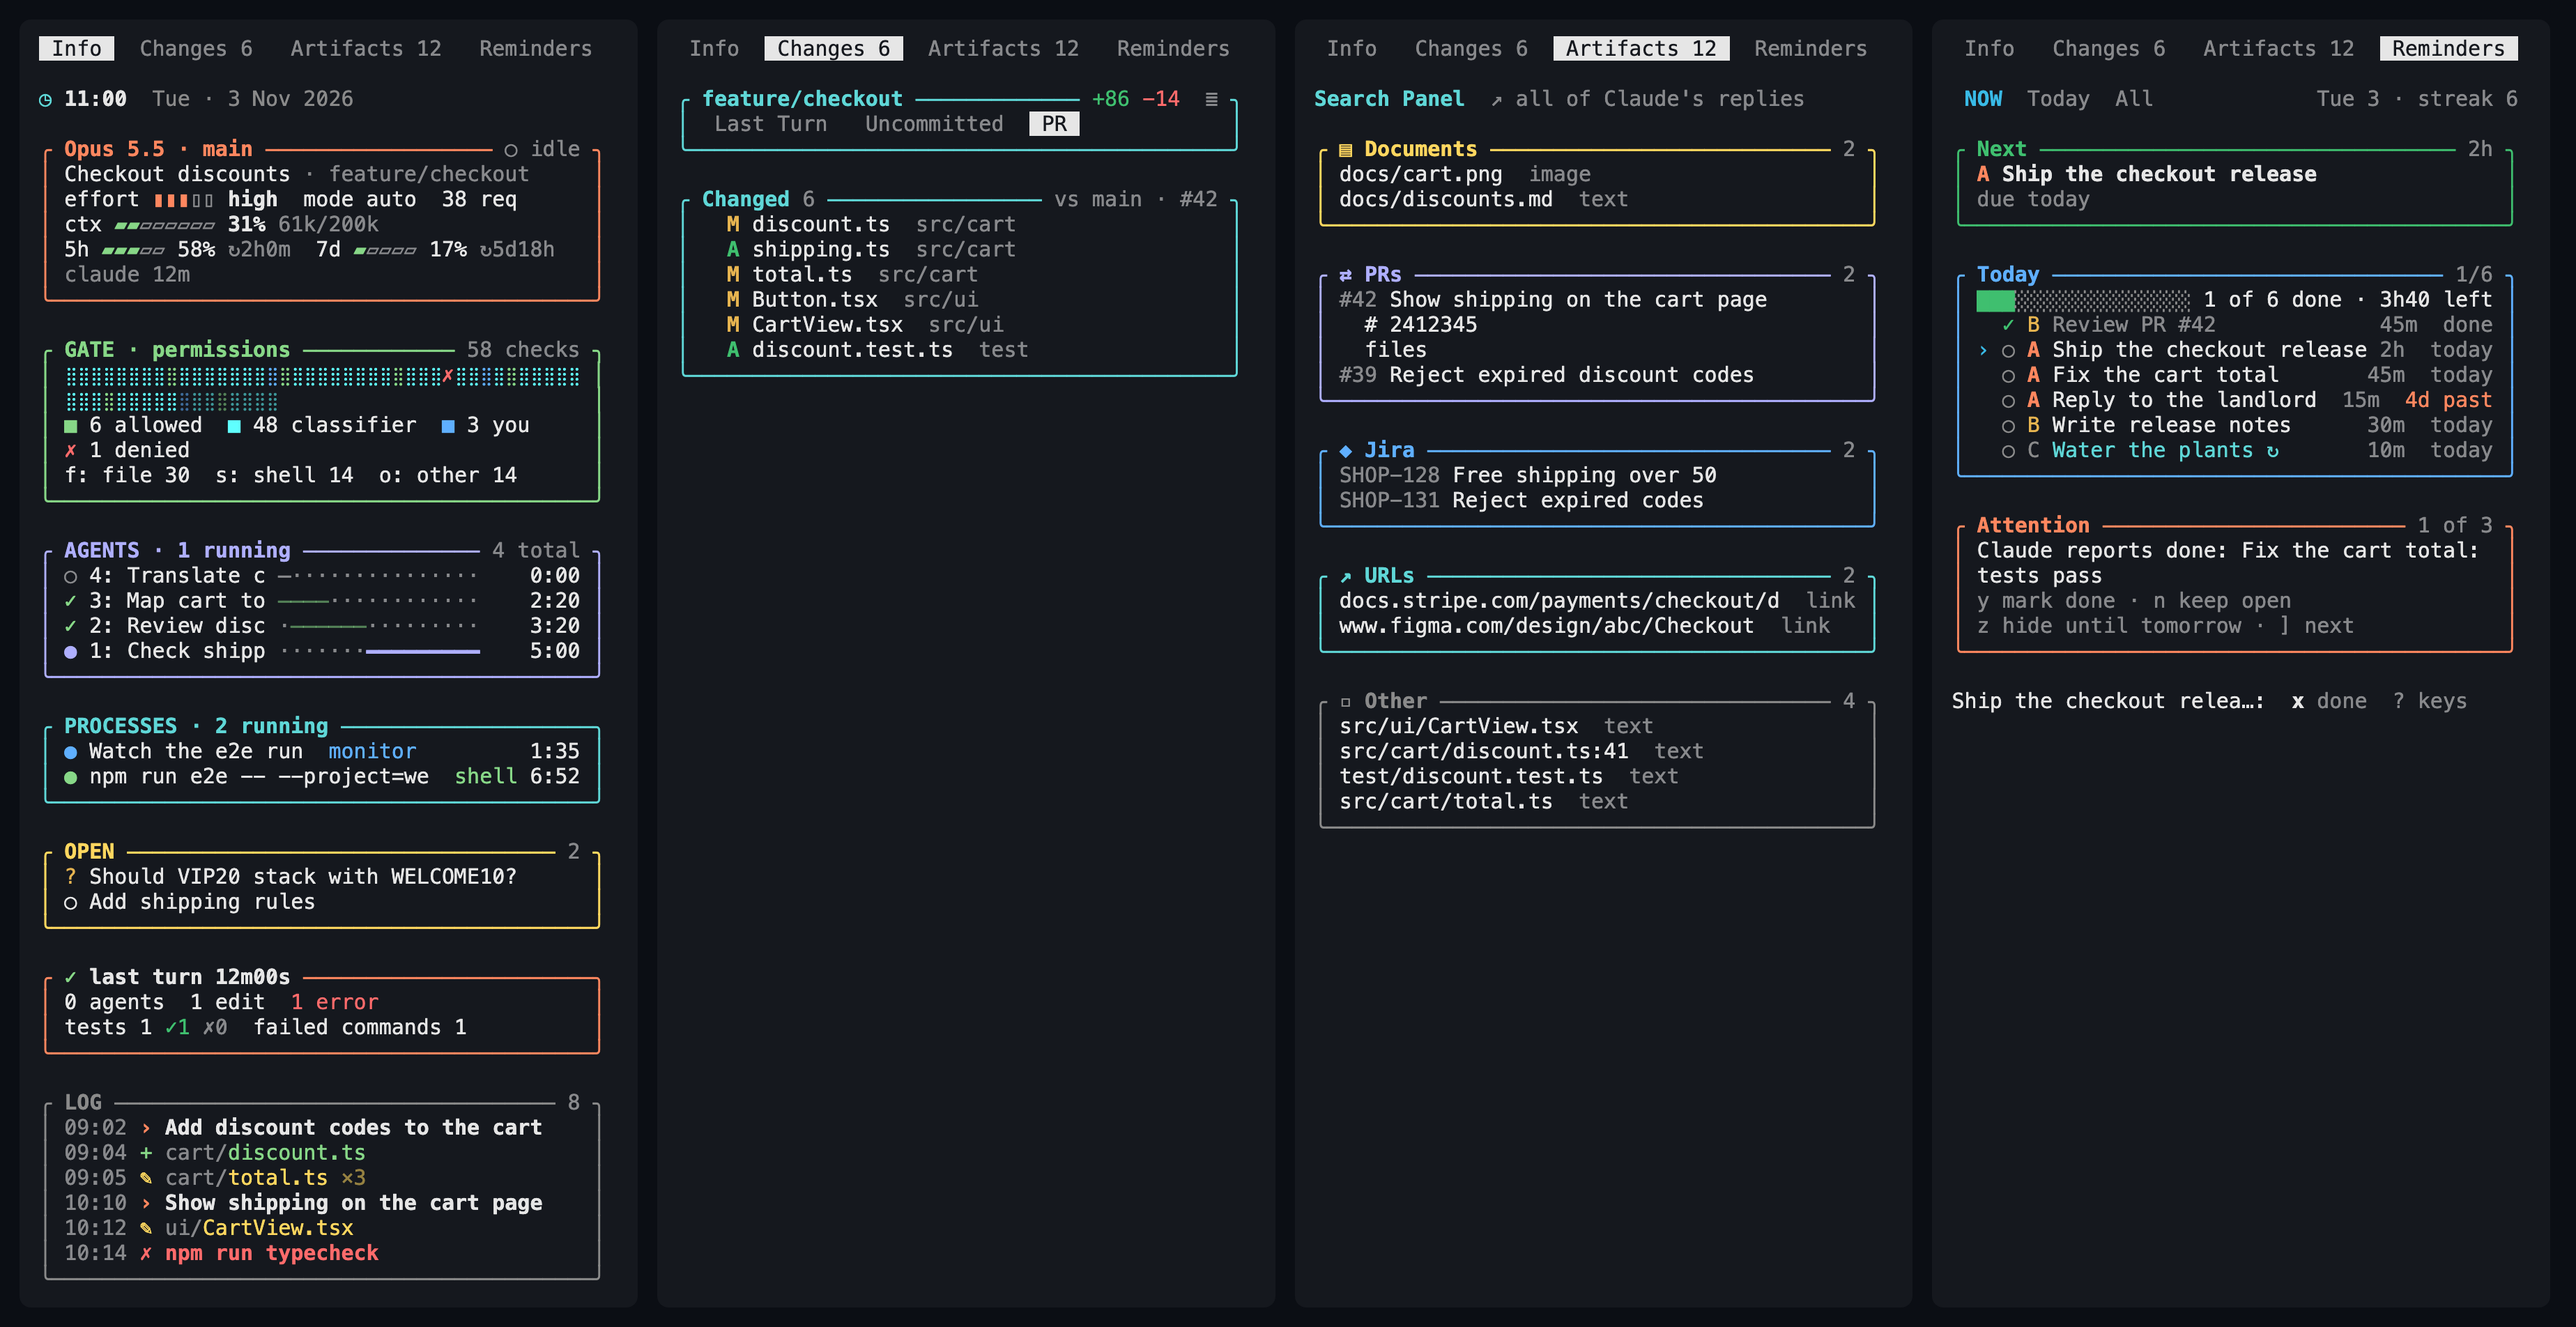
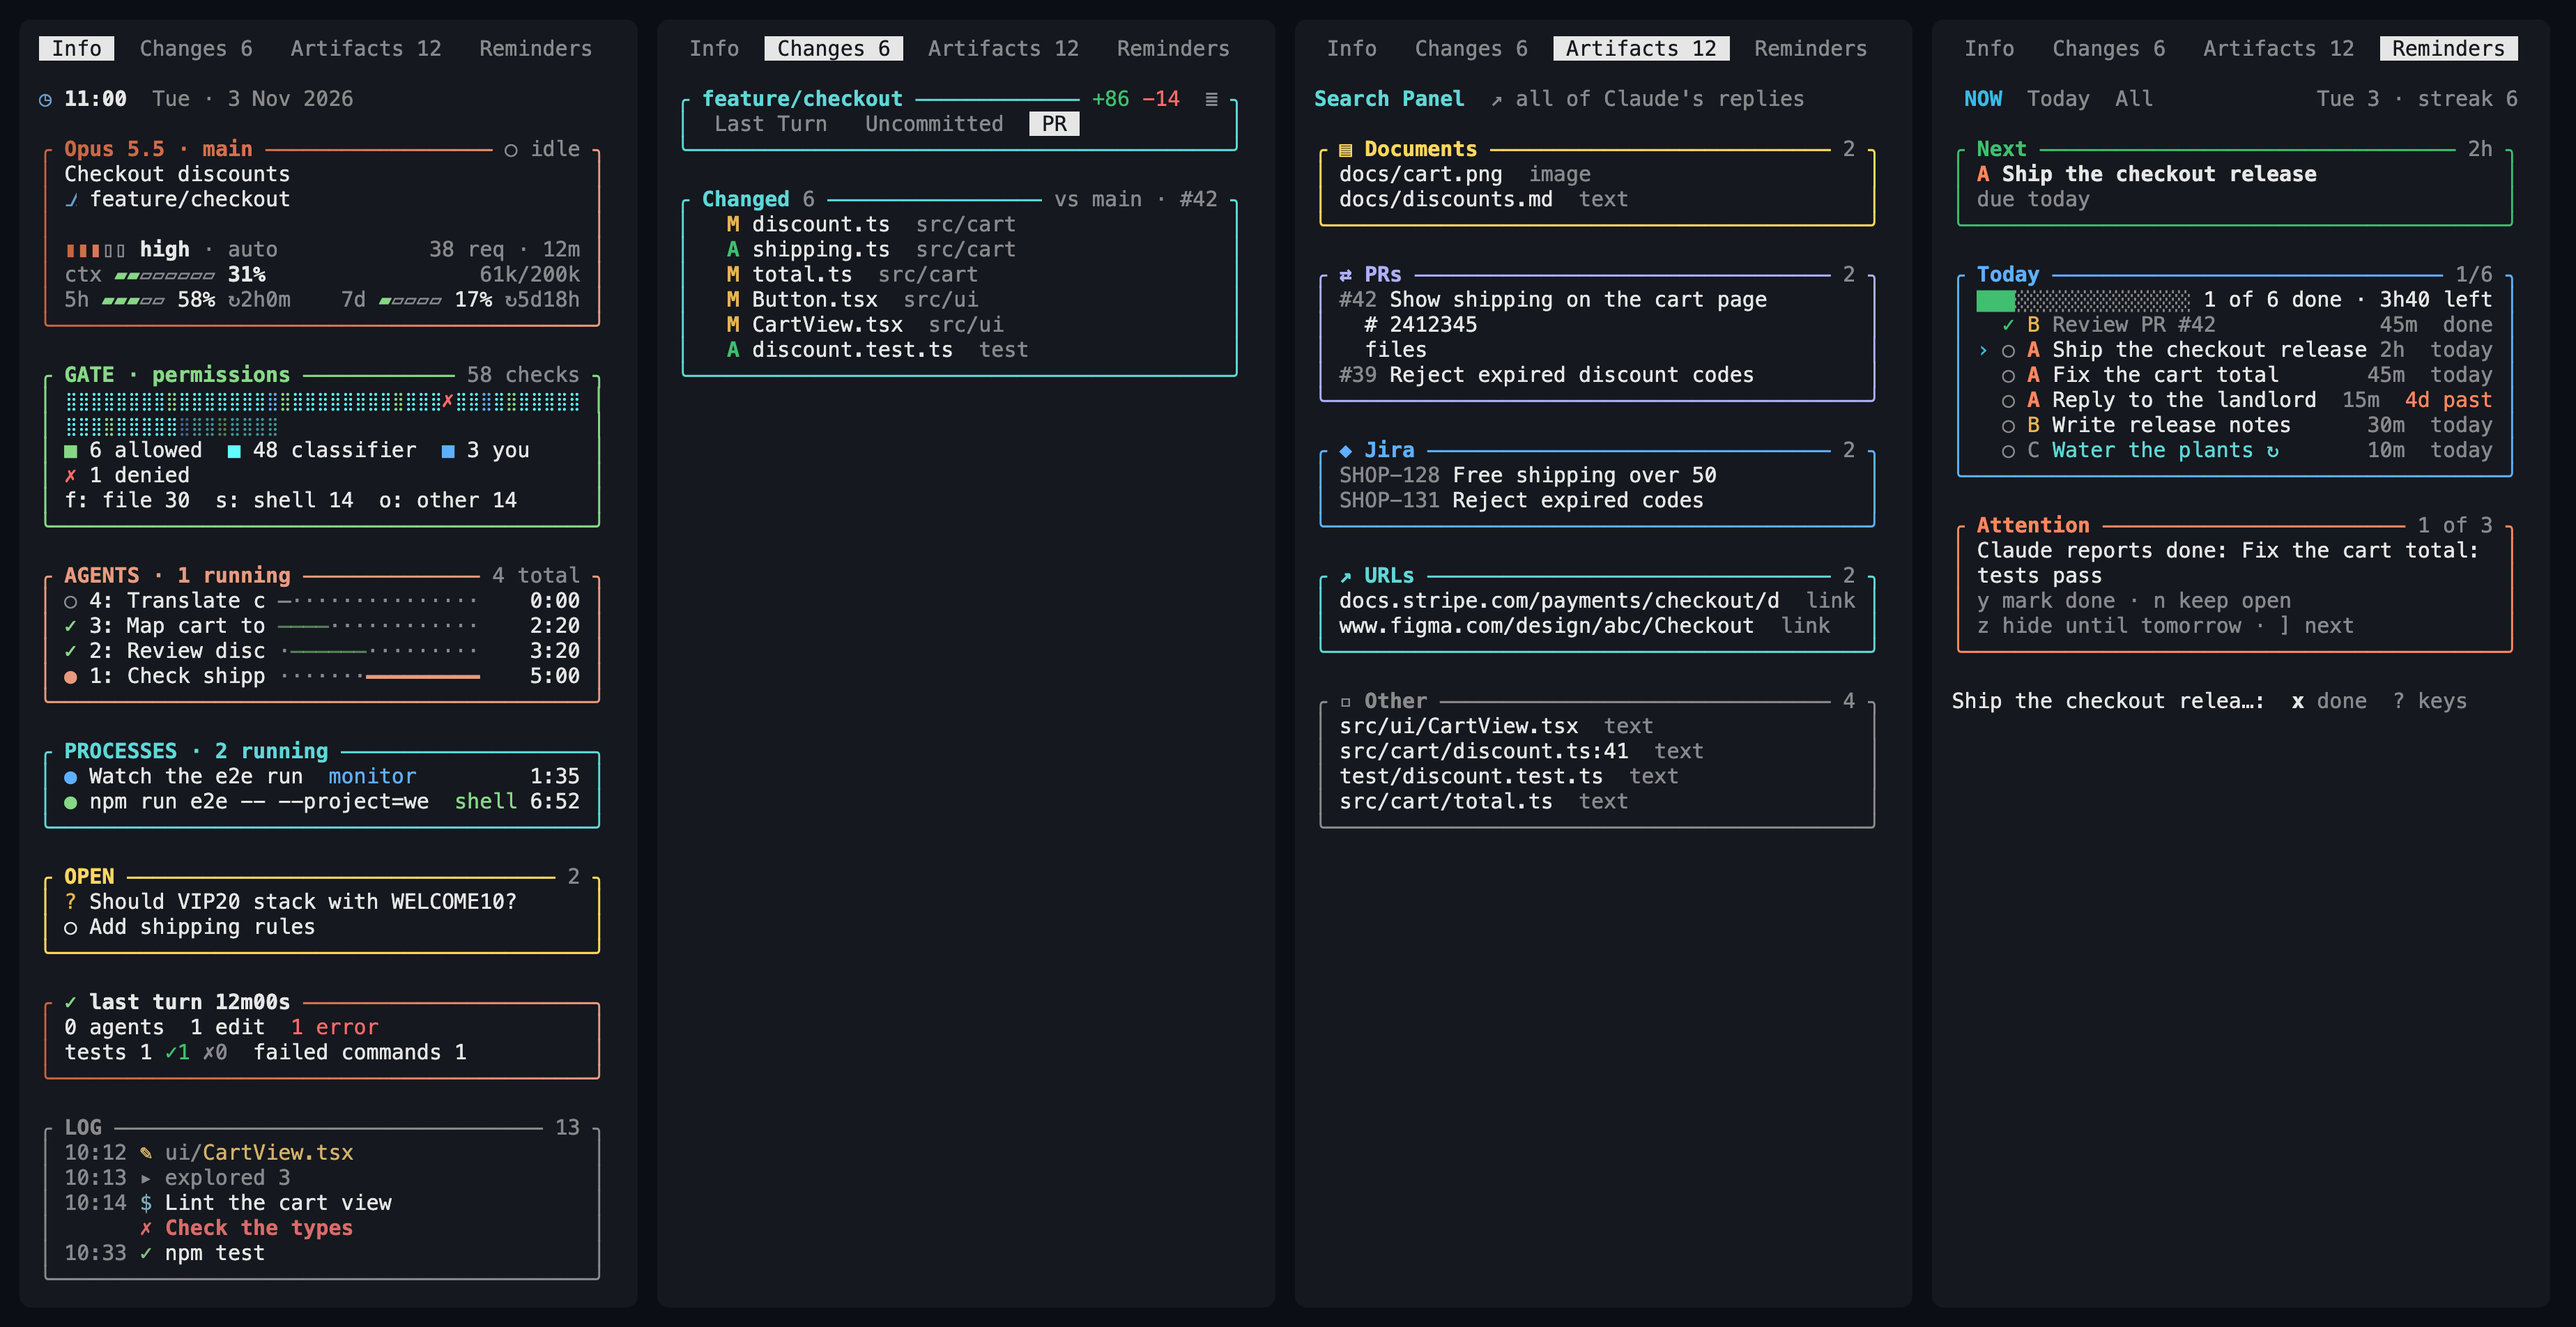
docs: v1.3.0 changelog, log and colour docs, and new pictures

Changed region(s): [[0.0, 0.093, 0.2489, 0.9606]]

diff --git a/rex-sidecar/README.md b/rex-sidecar/README.md
@@ -44,10 +44,12 @@ headings. Each frame is drawn in one go, so a pane resized in a background tab
 comes back whole and doesn't flicker.
 
 The main and turn boxes, the title and the effort bar take the agent's
-colours. Claude is coral with lavender subagents. Codex runs from blue to
-indigo, with periwinkle subagents. agy runs through Google's four colours,
+colours. Claude runs from terracotta to soft clay, with clay subagents.
+Codex runs from blue to indigo, with periwinkle subagents. agy runs through Google's four colours,
 with light blue subagents. Pi runs from pink to orchid, with blush
-subagents. OpenCode runs from slate to silver, with misty subagents.
+subagents. OpenCode runs from slate to silver, with misty subagents. The
+crab pond uses the same colours, from each adapter's `theme` in
+[`../agents/`](../agents/README.md).
 
 ![Four Info tabs with made-up data: a Codex session in blue and indigo, an agy session in Google's four colours, a Pi session in pink and an OpenCode session in silver, each with its subagent, open question, last turn and log](../docs/rex-sidecar-themes.png)
 
@@ -104,14 +106,14 @@ Info opens first. Its top line shows the time and date, such as
 
 | Box | What's in it |
 | --- | --- |
-| **Model · main** | Running or idle. The session's title and branch. Reasoning effort, permission mode and the number of requests. Context used against the model's window, and ⟲ with how often it was compacted. Your 5-hour and 7-day limits, with the time to each reset (↻). Claude's working time |
+| **Model · main** | Running or idle, with `code` before it in Claude's Code Mode. The session's title. The branch (`⎇`), read live from git, and `⑂` with the worktree's name when the folder is a linked worktree. Reasoning effort, permission mode and the number of requests. Context used against the model's window, and ⟲ with how often it was compacted. Your 5-hour and 7-day limits, with the time to each reset (↻). Claude's working time |
 | **ADVISOR** | The advisor tool's consults on a timeline: how long ago the last one was, and how long it took. Shows only once Claude has consulted it |
 | **GATE** | One dotted cell (`⣿`) per permission check. Green: allowed by a rule or the mode. Cyan: allowed by the auto-mode classifier. Blue: allowed by you. Red ✗: denied. Dim: made inside a subagent. Then the totals by family: click `file`, `shell` or `other`, or press `f`, `s` or `o`, to list that family's last 5 checks |
 | **AGENTS** | The latest 8 subagents as lanes on one time axis, newest first. A running one has a pulsing ● and a ticking clock. One that hasn't changed for 5 minutes without finishing, such as an idle team member, shows a grey ○. Click a lane for its type, context, steps, last 3 tool calls and the start of its answer |
 | **PROCESSES** | Claude's background tasks running right now, newest first, as Claude Code's own list shows them: a monitor by its description, a shell by its command. Green for a shell, blue for a monitor, with how long it has run. Hidden while none run |
 | **OPEN** | Questions and plans waiting for your answer, questions at the end of Claude's last reply, and unfinished tasks |
 | **Receipt** | The running turn, or the last one: how long it took, the agents it started, its edits and errors. Then tests and failed commands; click either to list the latest 8. A command counts as a test when it's `pytest`, `npm test`, `go test`, or a script named test or spec |
-| **LOG** | Your prompts, file writes and edits, agents starting and finishing, workflows, failed commands, denied checks, advisor consults and compactions. Each row has an icon and a colour for its kind: `›` prompt, `+` new file, `✎` edit, `-` delete, `▸` workflow, `✦` agent, `◆` advisor, `✗` error or denial, `⟲` compaction or interrupt, `•` anything else. Times are `HH:MM`, shown once per minute. Paths are cut to `folder/file`, and the same event in a row folds into one line with `×N` (prompts never fold). It fills the space below the other boxes, or a screen of its own when they fill the screen |
+| **LOG** | What the agent did, for all five agents. Each row has an icon and a colour for its kind; see [The log](#the-log). Times are `HH:MM`, shown once per minute. It fills the space below the other boxes, or a screen of its own when they fill the screen |
 
 - Context and usage limits depend on the agent: Claude Code and agy need their
   optional status line setup; Pi needs its extension for context % (no usage
@@ -124,6 +126,33 @@ Info opens first. Its top line shows the time and date, such as
 - Values that look like secrets are shown as `•••` in GATE, the lanes, the
   receipt, PROCESSES and the log: the value after `TOKEN=`, `--password` or
   `Authorization:`, bearer tokens, and long key-like strings.
+
+### The log
+
+| Icon | Kind |
+| --- | --- |
+| `›` | Your prompt, in bold |
+| `+` `✎` `-` | A file written, edited or deleted. Paths are cut to `folder/file` |
+| `$` | A command. It shows the agent's description of it when there is one; click the row to see the command itself |
+| `✓` | Tests that passed |
+| `◦` | A file read, or a look through files (grep, glob, a read-only command). Two or more in a row fold into `▸ read 4 files` or `▸ explored 5`; click to open them (`▾`) |
+| `↗` `◎` | A web page opened, a web search |
+| `⬡` | An MCP tool, as `server·tool` |
+| `▷` | A workflow |
+| `✦` | A subagent starting or finishing |
+| `♦` | An advisor consult |
+| `✗` | An error or a denied check, in red |
+| `⟲` | A compaction or an interrupt |
+| `•` | Anything else |
+
+Commands that only read, such as `ls`, `cat`, `grep`, `git log`, `sed`
+without `-i`, or several of them joined with `&&`, `;` or `|`, count as reads.
+A command that writes a file, deletes or runs a script doesn't. Leading
+`cd ... &&` and `name=...;` parts are dropped, and your home and the project
+folder are shortened. The same event in a row folds into one line with `×N`;
+prompts never fold. `sleep`, Rex's own `rex session rename` and Claude's
+reads of its own spilled tool output are left out, and so are Code Mode's
+`REPL` wrappers, since the calls inside them are logged.
 
 ## Artifacts
 
@@ -498,11 +527,12 @@ doesn't select text in it.
 
 ## Tab settings
 
-`,` lists every tab after Info, which always shows. A shown tab has `✓`.
+`,` lists every tab. A shown tab has `✓`. Info always shows, but can be
+moved like the others.
 
 - `j` `k` select a tab.
 - `Space`, or a click, shows or hides it.
-- `J` `K` move it.
+- `J` `K`, `Shift+↑` `Shift+↓`, or a click on `↑` `↓`, move it.
 - `Esc` or `,` closes the list.
 
 The result is saved in `settings.json` as
@@ -630,6 +660,9 @@ pkill -f 'rex-sidecar/watcher\.lua'; rex config reload
   including `Changes:` panes from before this extension was renamed.
 - rex-resume doesn't save sidecar panes. They come back with the resumed
   agent.
+- In a tab you aren't looking at, the pane pauses its animations and most of
+  its polling. While a turn runs, the turn box animates at about 60 frames a
+  second, patched in place.
 - Errors go to `~/.config/rex/state/rex-sidecar.log`. The pane shows its own.
 
 ## Where Info and Artifacts get their data

diff --git a/CHANGELOG.md b/CHANGELOG.md
@@ -3,12 +3,75 @@
 Releases are tagged `vX.Y.Z` on GitHub. The skills keep their own versions,
 in each plugin's `plugin.json`.
 
-## Unreleased
+## v1.3.0 — 2026-11-23
 
-- **rex-view removed:** the rex-view skill plugin is gone from the repository
-  and the marketplace. Uninstall it with
-  `claude plugin uninstall rex-view@rex-extensions`. The sidecar's Search
-  Panel and Artifacts tab keep their viewer, now at `rex-sidecar/viewer`.
+A clearer LOG for all five agents, shared agent colours in the sidecar and
+the pond, a much lighter CPU and memory footprint, Code Mode support, and the
+rex-view plugin retired.
+
+### rex-sidecar
+
+- **LOG:** a calmer icon and colour per kind, for Claude, Codex, agy, Pi and
+  OpenCode alike: `$` commands, `✓` passing tests, `◦` reads and searches,
+  `↗` and `◎` web pages and searches, `⬡` MCP tools (`server·tool`), `▷`
+  workflows and `♦` advisor consults, besides prompts, writes, edits,
+  deletes, subagents, errors and compactions.
+  - A command shows the agent's description of it, when there is one; click
+    the row to see the command itself.
+  - Two or more reads in a row fold into `▸ read N files` or `▸ explored N`,
+    and a click opens them. Read-only shell commands count as reads, even
+    when joined with `&&`, `;` or `|`.
+  - Leading `cd ... &&` and `name=...;` parts are dropped, and your home and
+    the project folder are shortened.
+  - `sleep`, `rex session rename`, Claude's reads of its own spilled tool
+    output and Code Mode's `REPL` wrappers are left out.
+- **Code Mode:** a Claude session in Code Mode shows `code` before the
+  running or idle dot.
+- **Main box:** the branch (`⎇`) is read live from git, and a linked worktree
+  shows as `⑂` with its name. Effort and mode lose their labels.
+- **Turn box:** while a turn runs, it animates at about 60 frames a second,
+  patched in place, without the old 2-second stalls.
+- **Tab settings:** Info is listed too and can be moved, with `J` `K`,
+  `Shift+↑` `Shift+↓` or a click on `↑` `↓`. It still can't be hidden.
+- **Colours:** Claude now runs from terracotta to soft clay. Every adapter
+  declares its palette as a `theme` in `agents/`, and the sidecar and pond
+  both read it.
+- **Performance:** a pane in a hidden tab pauses its animations and most
+  polling. Finished tool calls and subagent calls are freed, which stopped a
+  leak of tens of MB in long sessions. Git is read without subprocesses when
+  the folder hasn't changed.
+
+### rex-crab-pond
+
+- Agent crabs and their titles take their agent's gradient: Codex is now blue
+  to indigo, not green, and its subagents periwinkle.
+- A pond in a hidden tab stops drawing and checking programs, and a visible
+  one skips frames where nothing moved. Rendering is about 4.6× faster.
+
+### Agents
+
+- agy's `lsof` lookup skips DNS, so it no longer stalls for up to half a
+  second.
+- The Pi extension also follows tree navigation, compactions and thinking
+  level changes.
+
+### rex-view removed
+
+- The rex-view skill plugin is gone from the repository and the marketplace.
+  Uninstall it with `claude plugin uninstall rex-view@rex-extensions`.
+- The sidecar's Search Panel and Artifacts tab keep their viewer, now at
+  `rex-sidecar/viewer`. The Search Panel picture is now
+  `docs/search-panel.png`.
+
+### Docs
+
+- New pictures of the sidecar, the agent colours and the crab pond.
+- The sidecar README has a new section on the log.
+
+### Thanks
+
+Thanks to Timofei Bogoliubov for the themes, the LOG, the 60 Hz turn box,
+Code Mode support and the performance work (#8 to #11).
 
 ## v1.2.2 — 2026-11-22
 

diff --git a/rex-crab-pond/README.md b/rex-crab-pond/README.md
@@ -54,6 +54,11 @@ The first crab is the tab's main agent: the focused agent pane, or the last
 one that was. It shows the session's name, model and uptime. Other agents in
 the tab get crabs of their own.
 
+An agent crab's body and title run through its agent's colours, the same ones
+the sidecar uses: Claude from terracotta to soft clay, Codex from blue to
+indigo, agy through Google's four colours, Pi from pink to orchid, and
+OpenCode from slate to silver. Subagents get the agent's lighter colour.
+
 A Claude's outfit shows its model and effort:
 
 | Model | Outfit |
@@ -67,19 +72,19 @@ A Claude's outfit shows its model and effort:
 | Sonnet | Musician |
 | Haiku | Gardener |
 
-A Codex is green and named after its thread. Its outfit shows its reasoning
+A Codex is named after its thread. Its outfit shows its reasoning
 effort: a scientist for high or xhigh, a ninja for low or minimal, and a robot
 otherwise.
 
-An agy (Antigravity CLI) crab is Google blue, and its outfit shows its effort
+An agy (Antigravity CLI) crab's outfit shows its effort
 as a Codex's does. The effort comes from the model ID (`gemini-4-neon-high`),
 or from agy's status line script when the ID has none; without either, it's a
 robot. Each running agy subagent gets a light blue crab of its own.
 
-A Pi crab is pink, and its outfit shows its thinking level as a Codex's does.
+A Pi crab's outfit shows its thinking level as a Codex's does.
 Each pi-subagents run gets a light pink crab of its own.
 
-An OpenCode crab is silver-grey, dressed by its model's variant (high, low)
+An OpenCode crab is dressed by its model's variant (high, low)
 as a Codex is. Its subagents, OpenCode's child sessions, get lighter crabs.
 
 Agents are found by program name, in any case: `claude`, `Claude` and
@@ -87,9 +92,9 @@ Agents are found by program name, in any case: `claude`, `Claude` and
 
 ## Subagents
 
-A Claude subagent is a lighter peach crab, titled with the task Claude gave
+A Claude subagent is a soft clay crab, titled with the task Claude gave
 it. It counts as running while its transcript changed in the last 10 minutes.
-A Codex subagent is lighter green, and counts as running while its thread
+A Codex subagent is periwinkle, and counts as running while its thread
 changed in the last 5 minutes.
 
 The outfit comes from the first word of the subagent's type or task that names
@@ -225,6 +230,9 @@ bind a key, use `rex.bind` with `rex_crab_pond_show` or `rex_crab_pond_auto_show
 - A crab pane you close stays closed until the tab has no agent left, or you
   run Show Crabs Pane.
 - When the watcher starts, it replaces leftover crab panes with new ones.
+- A pond in a tab you aren't looking at stops drawing and checking programs,
+  and a visible one skips frames where nothing moved, so ponds cost little
+  CPU.
 - rex-resume doesn't save crab panes. They come back with the resumed agent.
 - Watcher errors go to `~/.config/rex/state/rex-crab-pond.log`. The pane shows
   its own errors.
